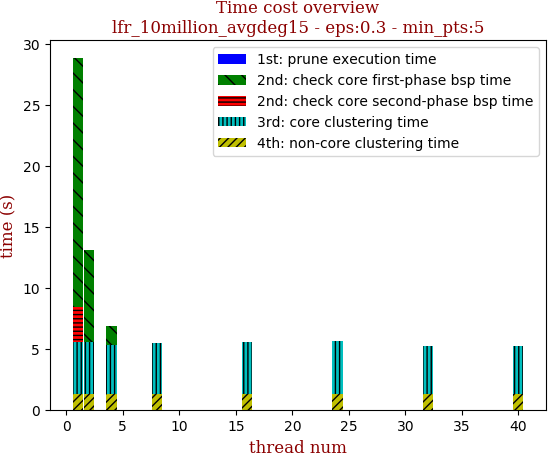
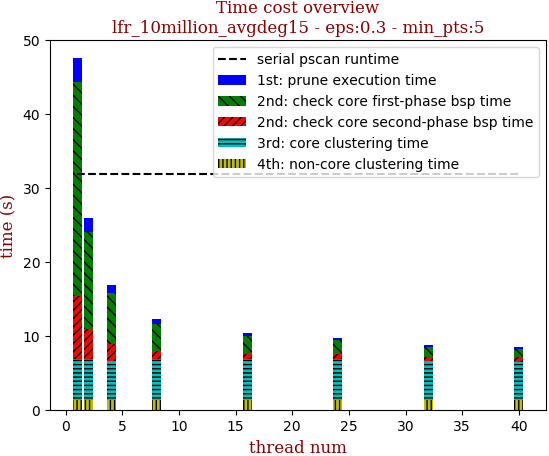
update figures

diff --git a/python_experiments/scalability_figure_overview.py b/python_experiments/scalability_figure_overview.py
@@ -10,24 +10,22 @@ def format_str(float_num):
 def display_speedup(edge_num_portion_lst, pscan_serial_runtime_lst, pscan_plus_parallel_runtime_lst,
                     data_set_name_lst, title_append_txt=''):
     # init parameters
-    shape_color_lst = ['k--', 'mx']
     font = {'family': 'serif', 'color': 'darkred', 'weight': 'normal', 'size': 12, }
     plt.title(
         'Computation speedup over different datasets\n' + title_append_txt if title_append_txt != ''
         else 'Computation speedup over different datasets', fontdict=font)
 
     #  draw speedup
-    pscan_speedup = [1 for _ in xrange(len(edge_num_portion_lst))]
     psca_plus_speedup = map(lambda pair: pair[0] / pair[1],
                             zip(pscan_serial_runtime_lst, pscan_plus_parallel_runtime_lst))
-    plt.plot(edge_num_portion_lst, pscan_speedup, shape_color_lst[0])
-    plt.plot(edge_num_portion_lst, psca_plus_speedup, shape_color_lst[1])
+    plt.bar(edge_num_portion_lst, psca_plus_speedup, color='m')
 
     plt.xlabel('real-world data set', fontdict=font)
     plt.xticks(edge_num_portion_lst, data_set_name_lst, rotation=20)
     plt.ylabel('speedup', fontdict=font)
-    plt.legend(['pscan serial', 'pscan+ parallel'])
+    plt.legend(['parallel pscan+ speedup over serial pscan'])
 
+    plt.ylim([0.0, 25.0])
     plt.savefig('./figures/scalability_overview' + os.sep + title_append_txt.replace(' ', '')
                 + '-' + 'runtime-speedup.png', bbox_inches='tight', pad_inches=0, transparent=True)
     plt.show()
@@ -97,36 +95,36 @@ def to_portion_lst(info_lst, input_time_lst, output_time_lst):
 
 def display_comp_io_portion(portion_lst_lst, data_set_name_lst, title_append_txt=''):
     # init parameters
-    shape_color_lst = ['mx', 'g^', 'bv', 'k+', 'ko']
+    filtered_lst = recal_for_bar_char([portion_lst_lst[3], portion_lst_lst[4], portion_lst_lst[1], portion_lst_lst[2]])
+
+    shape_color_lst = ['g', 'c', 'y', 'r']
+    hatch_lst = ['\\\\\\', '////', '----', '||||']
+
     font = {'family': 'serif', 'color': 'darkred', 'weight': 'normal', 'size': 12, }
     plt.title(
         'Computation and I/O portition over different datasets\n' + title_append_txt if title_append_txt != ''
         else 'Computation and I/O portition over different datasets', fontdict=font)
 
-    prev_partial_func = plt.plot
     cur_shape_color_idx = 0
-    for portion_lst in portion_lst_lst:
+    for portion_lst in filtered_lst:
         # partially bind parameters
-        prev_partial_func = partial(prev_partial_func, range(1, len(data_set_name_lst) + 1), portion_lst,
-                                    shape_color_lst[cur_shape_color_idx])
+        plt.bar(range(1, len(data_set_name_lst) + 1), portion_lst, color=shape_color_lst[cur_shape_color_idx],
+                hatch=hatch_lst[cur_shape_color_idx])
         cur_shape_color_idx += 1
-    prev_partial_func()
 
-    #  draw speedup
+    # draw speedup
     plt.xlabel('real-world data set', fontdict=font)
-    plt.ylim([-0.3, 5.0])
+    plt.ylim([0.0, 10.0])
     plt.xticks(range(1, len(data_set_name_lst) + 1), data_set_name_lst, rotation=20)
     plt.ylabel('portion', fontdict=font)
-    plt.legend(['total comp time', 'parallel part time', 'serial part time', 'input time', 'output time'])
+    plt.legend(['input time', 'output time', 'parallel part time', 'serial part time'])
 
     plt.savefig('./figures/scalability_overview' + os.sep + title_append_txt.replace(' ', '')
                 + '-' + 'comp-io-portion.png', bbox_inches='tight', pad_inches=0, transparent=True)
     plt.show()
 
 
-if __name__ == '__main__':
-    # illustrate_speedup()
-
+def illustrate_comp_io_portion():
     data_set_lst = ['small_snap_dblp',
                     'snap_pokec', 'snap_livejournal', 'snap_orkut',
                     'webgraph_uk', 'webgraph_webbase',
@@ -168,3 +166,8 @@ if __name__ == '__main__':
     append_txt = ' - '.join(['eps:0.3', 'min_pts:5', 'with best logical thread num'])
     zipped_lst = to_portion_lst(best_info_lst, input_time_lst, output_time_lst)
     display_comp_io_portion(zipped_lst, map(lambda my_str: my_str.split('_')[-1], data_set_lst), append_txt)
+
+
+if __name__ == '__main__':
+    illustrate_speedup()
+    illustrate_comp_io_portion()

diff --git a/python_experiments/scalability_figure.py b/python_experiments/scalability_figure.py
@@ -57,6 +57,13 @@ def get_statistics(dataset, eps, min_pts, root_folder='.'):
     return info_dict
 
 
+def recal_for_bar_char(filtered_lst):
+    for idx in xrange(len(filtered_lst)):
+        for idx2 in xrange(idx + 1, len(filtered_lst)):
+            filtered_lst[idx] = map(lambda pair: sum(pair), zip(filtered_lst[idx], filtered_lst[idx2]))
+    return filtered_lst
+
+
 # display 0: overall time cost in five phases
 def display_overview(statistics_dic, title_append_txt=''):
     tag_list = [prune_time_tag, first_bsp_time_tag, second_bsp_time_tag, core_cluster_time_tag,
@@ -75,15 +82,21 @@ def display_overview(statistics_dic, title_append_txt=''):
 
     # draw after get data, with partial binding technique
     thread_lst, time_lst_lst = post_process()
-    shape_color_lst = ['b', 'g', 'r', 'c', 'y', 'm', 'k--']
-    hatch_lst = ['', '\\\\', '----', '||||', '////']
+
+    # bar charts
+    shape_color_lst = ['b', 'g', 'r', 'c', 'y', 'm']
+    hatch_lst = ['', '\\\\\\', '////', '----', '||||']
     cur_shape_color_idx = 0
-    for time_lst in time_lst_lst[:-1]:
-        plt.bar(thread_lst, map(lambda integer: float(integer) / 1000, time_lst), width=0.9,
+
+    filtered_lst = recal_for_bar_char(time_lst_lst[:-1])
+    plt.plot(thread_lst, map(lambda integer: float(integer) / 1000, time_lst_lst[-1]), 'k--')
+    for time_lst in filtered_lst:
+        plt.bar(thread_lst, map(lambda integer: float(integer) / 1000, time_lst),
                 color=shape_color_lst[cur_shape_color_idx], hatch=hatch_lst[cur_shape_color_idx])
         cur_shape_color_idx += 1
 
-    plt.legend(tag_list)
+    plt.legend([tag_list[-1]] + tag_list[:-1])
+
     font = {'family': 'serif', 'color': 'darkred', 'weight': 'normal', 'size': 12, }
     plt.title('Time cost overview\n' + title_append_txt if title_append_txt != '' else 'Time cost overview',
               fontdict=font)
